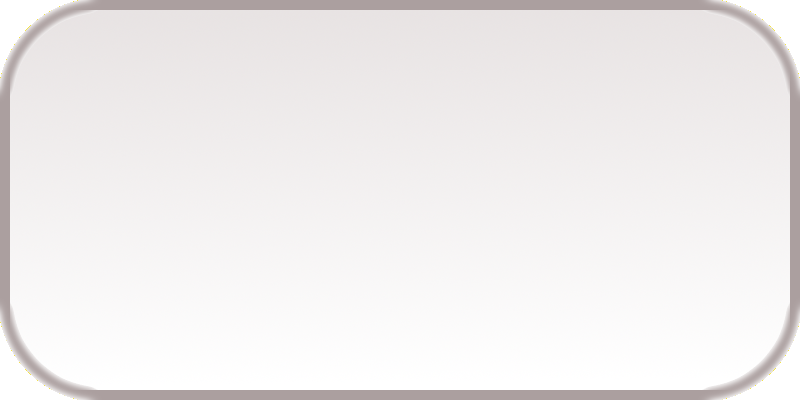
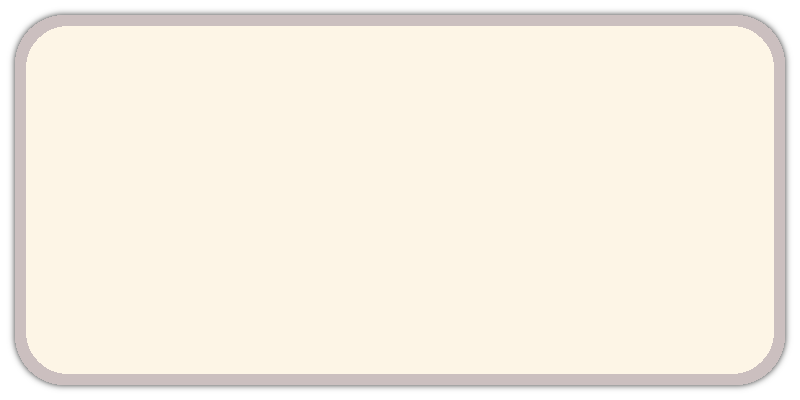
Application messagebox style and background image revisions.  Cleaned up Task list

Changed region(s): [[0.0, 0.0, 1.0, 1.0]]

diff --git a/AGNES/Application Objects/AgnesMessageBox.xaml b/AGNES/Application Objects/AgnesMessageBox.xaml
@@ -6,16 +6,13 @@
         xmlns:local="clr-namespace:AGNES"
         mc:Ignorable="d"
         Title="AgnesMessageBox" Height="400" Width="800" ResizeMode="NoResize" WindowStyle="None" AllowsTransparency="True" WindowStartupLocation="CenterScreen">
-    <Window.Effect>
-        <DropShadowEffect Opacity="0.5" BlurRadius="18" ShadowDepth="6" Direction="270"/>
-    </Window.Effect>
     <Window.Background>
         <ImageBrush ImageSource="/AGNES;component/Resources/msgbox.png"/>
     </Window.Background>
+    <Window.Effect>
+        <DropShadowEffect Opacity="0.7" BlurRadius="14" ShadowDepth="6" Direction="240"/>
+    </Window.Effect>
     <Grid>
-        <Grid.Background>
-            <ImageBrush/>
-        </Grid.Background>
         <Border x:Name="brdButtonOne" BorderBrush="{x:Null}" Height="40" Width="112" Margin="115,322,569,37">
             <Border.Effect>
                 <DropShadowEffect BlurRadius="6" ShadowDepth="4" Opacity="0.5" Direction="270"/>
@@ -43,9 +40,9 @@
             </Border.Background>
             <TextBlock x:Name="tbButtonThreeText" TextWrapping="Wrap" Text="Cancel" VerticalAlignment="Center" TextAlignment="Center" Foreground="White" FontSize="24"/>
         </Border>
-        <TextBlock x:Name="tbTopSection" HorizontalAlignment="Left" Margin="71,19,0,0" TextWrapping="Wrap" VerticalAlignment="Top" Height="101" Width="667" TextAlignment="Center" FontSize="24"/>
-        <TextBlock x:Name="tbBottomSection" HorizontalAlignment="Left" Margin="71,125,0,0" TextWrapping="Wrap" Text="TextBlock" VerticalAlignment="Top" Height="192" Width="667" FontSize="24" TextAlignment="Center"/>
-        <TextBlock x:Name="tbTopOffsetSection" HorizontalAlignment="Left" Margin="193,19,0,0" TextWrapping="Wrap" Text="TextBlock" VerticalAlignment="Top" Height="101" Width="545" TextAlignment="Center" FontSize="24"/>
-        <Image x:Name="imgAlert" HorizontalAlignment="Left" Height="100" Margin="71,20,0,0" VerticalAlignment="Top" Width="100"/>
-   </Grid>
+        <TextBlock x:Name="tbTopSection" HorizontalAlignment="Left" Margin="71,31,0,0" TextWrapping="Wrap" VerticalAlignment="Top" Height="101" Width="667" TextAlignment="Center" FontSize="24"/>
+        <TextBlock x:Name="tbBottomSection" HorizontalAlignment="Left" Margin="71,137,0,0" TextWrapping="Wrap" Text="TextBlock" VerticalAlignment="Top" Height="171" Width="667" FontSize="24" TextAlignment="Center"/>
+        <TextBlock x:Name="tbTopOffsetSection" HorizontalAlignment="Left" Margin="193,31,0,0" TextWrapping="Wrap" Text="TextBlock" VerticalAlignment="Top" Height="101" Width="545" TextAlignment="Center" FontSize="24"/>
+        <Image x:Name="imgAlert" HorizontalAlignment="Left" Height="101" Margin="71,31,0,0" VerticalAlignment="Top" Width="117"/>
+    </Grid>
 </Window>

diff --git a/AGNES/WCRHello.xaml b/AGNES/WCRHello.xaml
@@ -10,12 +10,7 @@
         <Grid Width="824" Height="449">
             <Image x:Name="imgAGNES" HorizontalAlignment="Left" Height="432" VerticalAlignment="Top" Width="261" Source="Resources/Full Agnes Image.png" Margin="0,10,0,0"/>
             <TextBlock x:Name="tbHello" HorizontalAlignment="Left" Margin="274,20,0,0" TextWrapping="Wrap"  VerticalAlignment="Top" FontSize="24" Height="320" Width="499" TextAlignment="Center"/>
-            <TextBlock x:Name="tbViewWCR" HorizontalAlignment="left" Margin="305,359,0,0" TextWrapping="Wrap" Text="I want to view a saved WCR" VerticalAlignment="Top" FontSize="18" Width="181" Height="53" TextAlignment="Center" Visibility="Hidden">
-                <TextBlock.Effect>
-                    <DropShadowEffect BlurRadius="2" Color="#FFEBEBEB" Direction="200" ShadowDepth="4"/>
-                </TextBlock.Effect>
-            </TextBlock>
-            <TextBlock x:Name="tbCreateWCR" HorizontalAlignment="left" Margin="557,359,0,0" TextWrapping="Wrap" Text="I want to create a new WCR" VerticalAlignment="Top" FontSize="18" Width="181" Height="53" TextAlignment="Center" Visibility="Hidden">
+            <TextBlock x:Name="tbCreateWCR" HorizontalAlignment="left" Margin="434,359,0,0" TextWrapping="Wrap" Text="I want to create a new WCR" VerticalAlignment="Top" FontSize="18" Width="181" Height="53" TextAlignment="Center">
                 <TextBlock.Effect>
                     <DropShadowEffect BlurRadius="2" Color="#FFEBEBEB" Direction="200" ShadowDepth="4"/>
                 </TextBlock.Effect>
